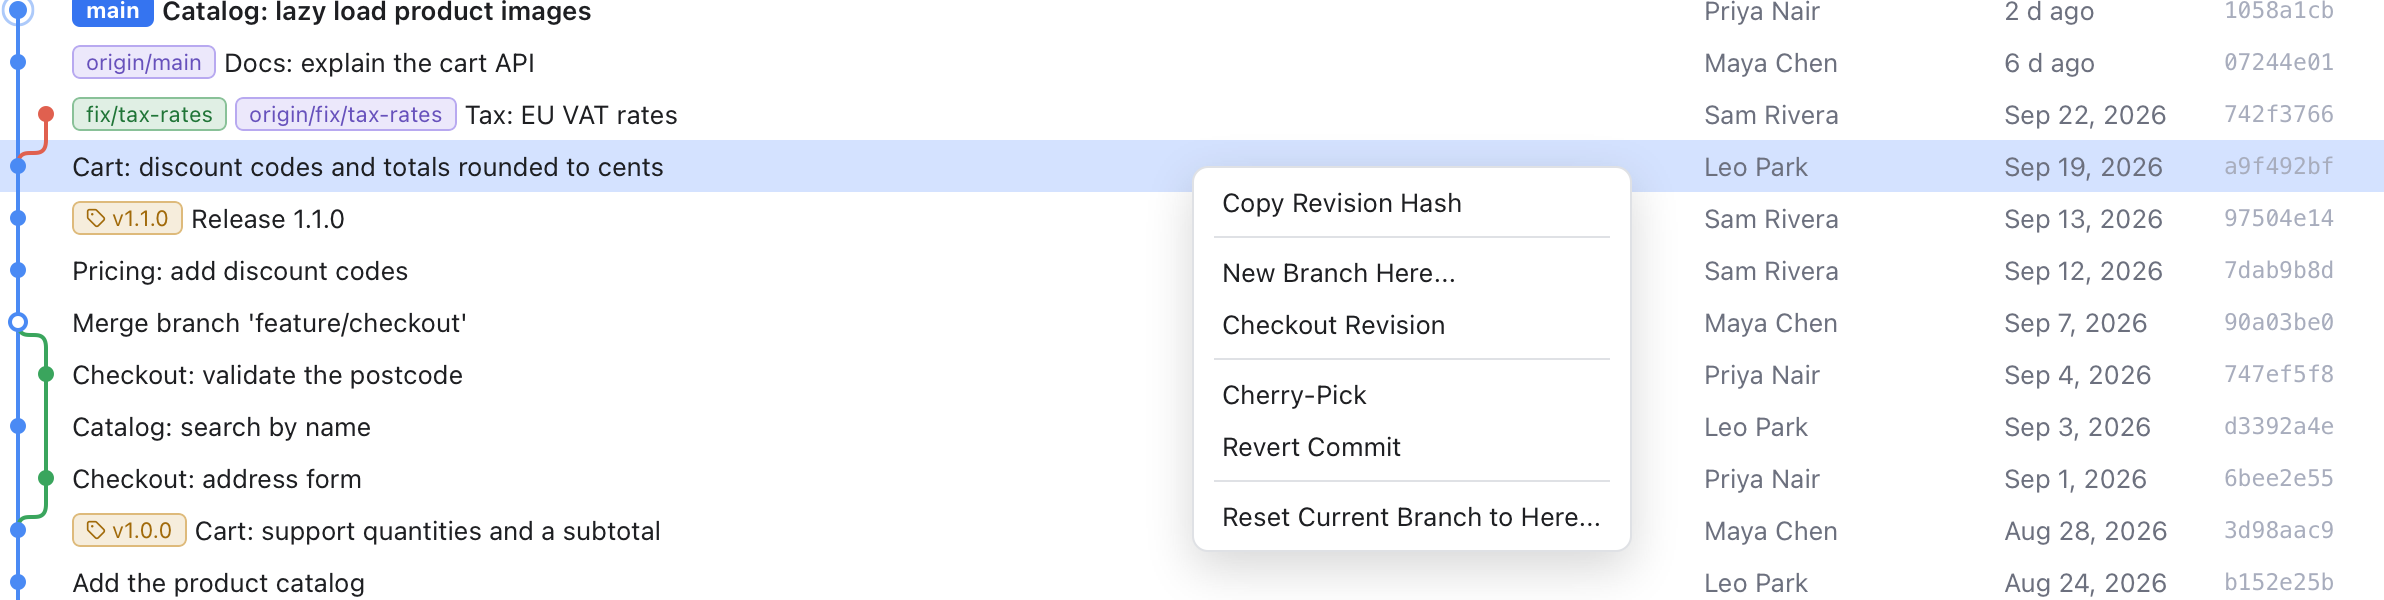
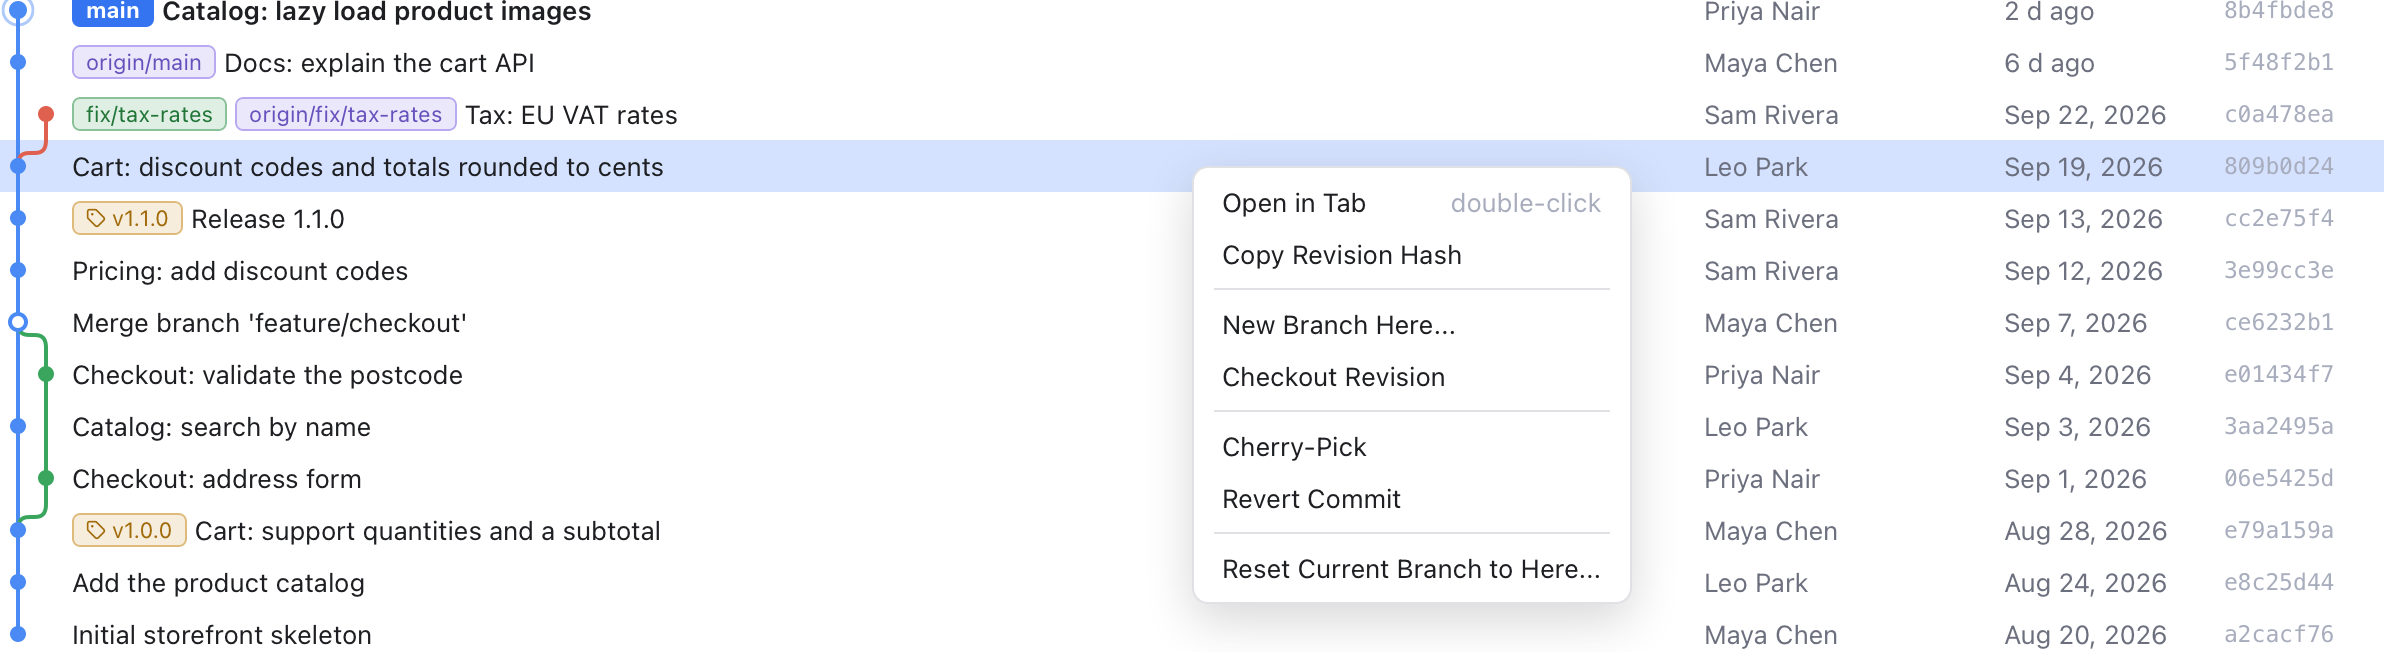
docs:[GM-4] refresh the README with screenshots and current features

diff --git a/README.md b/README.md
@@ -1,17 +1,46 @@
 # Git Manager
 
-A native desktop Git client with a JetBrains-style 3-way merge tool. Built with Rust (Tauri 2) and a small Svelte 5 UI running in the system web view, so it starts fast and stays light on memory.
+A native desktop Git client with a JetBrains-style 3-way merge tool, VS Code-style workspaces, tabs, blame and history. Built with Rust (Tauri 2) and a small Svelte 5 UI running in the system web view, so it starts fast and stays light on memory.
+
+![Git Manager: Changes, the editor with blame, and the Files panel](docs/wiki/images/window-overview.png)
+
+**[Download the latest release](https://github.com/shibbirweb/git-manager/releases)** (macOS, Apple Silicon and Intel) · **[User guide and developer docs](https://github.com/shibbirweb/git-manager/wiki)** · **[Report a bug or request a feature](https://github.com/shibbirweb/git-manager/issues/new/choose)**
+
+## Screenshots
+
+<table>
+  <tr>
+    <td width="50%"><img src="docs/wiki/images/merge-tool.png" alt="Three pane merge tool"><br><b>Merge tool</b>: Yours, Result and Theirs with per-change arrows</td>
+    <td width="50%"><img src="docs/wiki/images/inline-conflict-actions.png" alt="Inline conflict actions"><br><b>Conflicts in the editor</b>: Accept Current, Incoming or Both</td>
+  </tr>
+  <tr>
+    <td><img src="docs/wiki/images/log-graph.png" alt="Log with branch graph"><br><b>Log</b>: branch graph, tags and commit details</td>
+    <td><img src="docs/wiki/images/commit-tab.png" alt="A commit open in a tab"><br><b>Commit tabs</b>: a commit's diff in the whole editor area</td>
+  </tr>
+  <tr>
+    <td><img src="docs/wiki/images/changes-sidebar.png" alt="Changes sidebar"><br><b>Changes</b>: grouped by repository, stage and commit</td>
+    <td><img src="docs/wiki/images/blame-gutter.png" alt="Blame gutter"><br><b>Blame</b>: who changed each line, click to see the commit</td>
+  </tr>
+  <tr>
+    <td><img src="docs/wiki/images/workspace-folders.png" alt="Workspace with two folders"><br><b>Workspaces</b>: many folders and repositories in one window</td>
+    <td><img src="docs/wiki/images/dark-theme.png" alt="Dark theme"><br><b>Light and dark themes</b>, following the system by default</td>
+  </tr>
+</table>
+
+Every feature has its own page with screenshots in the [wiki](https://github.com/shibbirweb/git-manager/wiki).
 
 ## Features
 
-- **Multi-folder workspaces**, like VS Code's multi-root workspaces: add more folders with *Add Folder to Workspace...* (folder menu, or the + in the Files panel). Every folder's repositories appear together; the folder set is restored on the next start and listed under recent workspaces. *Save Workspace to File...* writes a `.gitmanager-workspace` file (`{"folders": [{"path": "apps/web"}]}`, paths relative to the file); *Open Workspace from File...* opens it or a VS Code `.code-workspace` file. A linked file is updated when folders are added or removed, keeping its other keys.
-- **Open any folder**, like VS Code: a single repository, a folder with many repositories (nested ones included), or a folder with no git at all (initialize one from the app). Changes are grouped per repository; one active repository drives branches, the log and pull/push, and you can switch it from the header, the Changes view or the Files panel.
-- **3-way merge resolver**: Yours | Result | Theirs panes with curved connectors, per-change `>>` / `<<` apply and `x` ignore buttons, "apply both" for conflicts (the second apply appends), one-click *Apply non-conflicting changes*, word-level highlights, synchronized scrolling, F7 / Shift+F7 navigation, full undo/redo, ignore-whitespace mode, and Accept Left / Accept Right for whole files.
-- **Conflicts dialog**: every conflicted file with its state on each side, Accept Yours / Accept Theirs (also for binary and modify/delete conflicts), then Continue or Abort the merge, rebase, cherry-pick or revert.
-- **Changes**: staged/unstaged/untracked files, side-by-side diffs, stage/unstage whole files or single hunks, discard, commit and amend.
-- **Branches**: local, remote and tags, with checkout, create, rename, delete, merge into current and rebase onto.
-- **Log**: paged history of all branches with a lane graph, commit details and per-file diffs; cherry-pick, revert, reset and checkout from the context menu.
-- **Remote and stash**: fetch, pull and push with live progress; stash, apply, pop and drop.
+- **Workspaces like VS Code**: open any folder, whether it is one repository, many (nested ones included) or no git at all (initialize one from the app). Add more folders to the same window, save the set to a `.gitmanager-workspace` file, or open a VS Code `.code-workspace` file. Repositories you clone or create inside an open folder show up on their own.
+- **3-way merge tool**: Yours | Result | Theirs panes with connectors, per-change apply and ignore buttons, "apply both" for conflicts, one-click *Apply non-conflicting*, word-level highlights, synchronized scrolling, F7 navigation, full undo and an ignore-whitespace mode.
+- **Conflicts made easy**: a Conflicts dialog to take Yours or Theirs for whole files (binary and deleted files too), inline *Accept Current / Incoming / Both* actions in the editor, and Continue or Abort for merge, rebase, cherry-pick and revert.
+- **Editor and tabs**: preview tabs (italic, like VS Code), breadcrumbs, change markers in the gutter and on the scrollbar, next and previous change, syntax highlighting, font ligatures and zoom with Ctrl + mouse wheel.
+- **Changes**: staged and unstaged files grouped by repository, side-by-side diffs, stage or unstage whole files or single hunks, discard, commit and amend.
+- **Blame**: GitLens-style blame for the current line and a blame gutter; click it to open that commit in the Log on the same line.
+- **Log**: paged history with a branch graph, commit details and per-file diffs. Double-click a commit (or use *Open in Tab*) to read it full size in its own tab. Cherry-pick, revert, reset and checkout from the right-click menu.
+- **Branches, tags, remotes and stashes**: checkout, create, rename, delete, merge and rebase; fetch, pull and push with live progress; stash, apply, pop and drop.
+- **Back and Forward** across files, diffs and commits, like a browser.
+- **Settings** saved in `~/.gitmanager` like VS Code's folder, a status bar with the app's memory use, and update checks with a stable and a beta channel.
 - **Works as `git mergetool`** (see below).
 
 ## How it works
@@ -94,8 +123,6 @@ The [wiki](https://github.com/shibbirweb/git-manager/wiki) has a user guide with
 - Optionally protect `develop` and `master` (pull requests only, CI required). The release branches get their CI run started by the workflow, so the checks show on the release pull request.
 - The repository must be public for the in-app update check to see releases.
 
-The first push of `develop` (at `0.1.0-beta.1`, untagged) publishes that first beta as soon as CI passes.
-
 ### Beta and stable channels
 
 - A beta is a GitHub pre-release. GitHub never counts it as the latest release, and the app only offers it to installs on the **beta channel**, so stable users are never moved to a beta.
@@ -117,7 +144,7 @@ git config --global mergetool.gitmanager.trustExitCode true
 git config --global merge.tool gitmanager
 ```
 
-Then `git mergetool` opens each conflicted file. **Apply** writes the result and exits with status 0 (git marks the file resolved). **Cancel** or closing the window exits with status 1 (the file stays unresolved).
+Then `git mergetool` opens each conflicted file. **Apply** (or Cmd+Enter) writes the result and exits with status 0, so git marks the file resolved. **Cancel**, Esc or closing the window asks first if you changed the result, then exits with status 1 and the file stays unresolved. Cmd+Q quits with status 1 without asking.
 
 ## Settings
 
@@ -129,7 +156,7 @@ Open **Settings** with the gear button in the header or **Cmd+,**. Changes apply
   state.json      recent folders, active repository per folder, sidebar layout and widths
 ```
 
-The folder is created the first time a setting is saved. If `settings.json` contains invalid JSON, the app uses defaults, shows the error in Settings, and does not overwrite your file.
+The folder is created the first time a setting is saved. If `settings.json` or `state.json` contains invalid JSON, the app uses defaults for that file only, shows the error in Settings, and never overwrites it: fix it and click **Try Again**, or **Reset** it. The [Settings page](https://github.com/shibbirweb/git-manager/wiki/Settings) lists every setting.
 
 ## Keyboard shortcuts (merge view)
 
@@ -137,8 +164,10 @@ The folder is created the first time a setting is saved. If `settings.json` cont
 | --- | --- |
 | F7 / Shift+F7 | Next / previous unresolved change |
 | Cmd+Z / Shift+Cmd+Z | Undo / redo in the result (also restores chunk state) |
-| Cmd+Enter | Apply (save the result and mark resolved) |
-| Esc | Cancel |
+| Cmd+Enter | Apply (save the result and mark resolved), from any pane |
+| Esc | Cancel (asks first if you changed the result) |
+
+Every other shortcut is on the [Keyboard Shortcuts page](https://github.com/shibbirweb/git-manager/wiki/Keyboard-Shortcuts).
 
 ## Project layout
 
@@ -146,12 +175,19 @@ The folder is created the first time a setting is saved. If `settings.json` cont
 src/                     Svelte UI
   lib/merge/             3-way merge view: model.ts (pure logic), extensions.ts (CodeMirror), MergeEditor.svelte
   lib/diff/              2-way diff view
-  lib/log/               commit graph layout and log UI
-  lib/views/             workspace, header, sidebar, changes, log
+  lib/log/               commit graph, commit details and commit tabs
+  lib/editor/            CodeMirror setup, blame, conflict markers, change markers
+  lib/stores/            app state: repositories, tabs, settings, navigation
+  lib/views/             workspace, header, sidebars, changes, files, settings
+  lib/update/            update check and What's New
   lib/api.ts, types.ts   typed bridge to the Rust commands
 src-tauri/src/
   merge/                 3-way merge engine
   git/                   git2 readers and the git CLI runner
   commands/              Tauri commands
   watcher.rs             repository file watcher
+docs/wiki/               the wiki: user guide, developer docs and screenshots
+scripts/                 versioning, wiki build, screenshots and demo repositories
 ```
+
+The [Project Layout page](https://github.com/shibbirweb/git-manager/wiki/Project-Layout) explains every folder.

diff --git a/docs/wiki/usage/History-and-Log.md b/docs/wiki/usage/History-and-Log.md
@@ -60,18 +60,17 @@ When you open a commit from blame, the Log loads more history until it finds it,
 
 ## Open a commit in a tab
 
-The details pane is handy for a quick look, but a big change is easier to read with the whole editor area. Like in VS Code, you can open a commit in its own tab:
+A big change is easier to read with the whole editor area. Like in VS Code, open a commit in its own tab:
 
-- Double-click the commit in the list (or select it and press Enter).
-- Click **Open in Tab** next to the commit message.
-- Double-click a file under the changed files, to open the tab on that file.
-- Right-click the commit and choose **Open in Tab**.
+- Double-click it in the list, or select it and press Enter.
+- Click **Open in Tab** next to the message, or choose it in the right-click menu.
+- Double-click one of its changed files to open the tab on that file.
 
 ![A commit open in its own tab](../images/commit-tab.png)
 
 *The commit in a tab: the same details and changed files, with the diff using the whole editor area.*
 
-The tab shows the commit's short hash and sits next to your file tabs; hover it for the message. It stays open until you close it, and opening the same commit again goes back to its tab. Clicking a **Parent** opens that commit in a tab too. Right-click the tab for **Copy Commit Hash**. To get back to the list, click the Log button.
+The tab shows the short hash; hover it for the message. Opening the same commit again goes back to its tab, and a **Parent** opens in a tab too. Right-click the tab for **Copy Commit Hash**. Click the Log button to get back to the list.
 
 ## Right-click a commit
 
@@ -79,6 +78,7 @@ The tab shows the commit's short hash and sits next to your file tabs; hover it 
 
 *Everything you can do with a commit.*
 
+- **Open in Tab** opens the commit in its own tab (the same as a double-click).
 - **Copy Revision Hash** copies the full hash.
 - **New Branch Here...** creates a branch that starts at this commit. **Checkout branch** is ticked, so you switch to it right away.
 - **Checkout Revision** checks out the commit itself. This is a "detached HEAD": you are not on any branch, so create a branch if you want to keep new commits made there. You are asked first.
